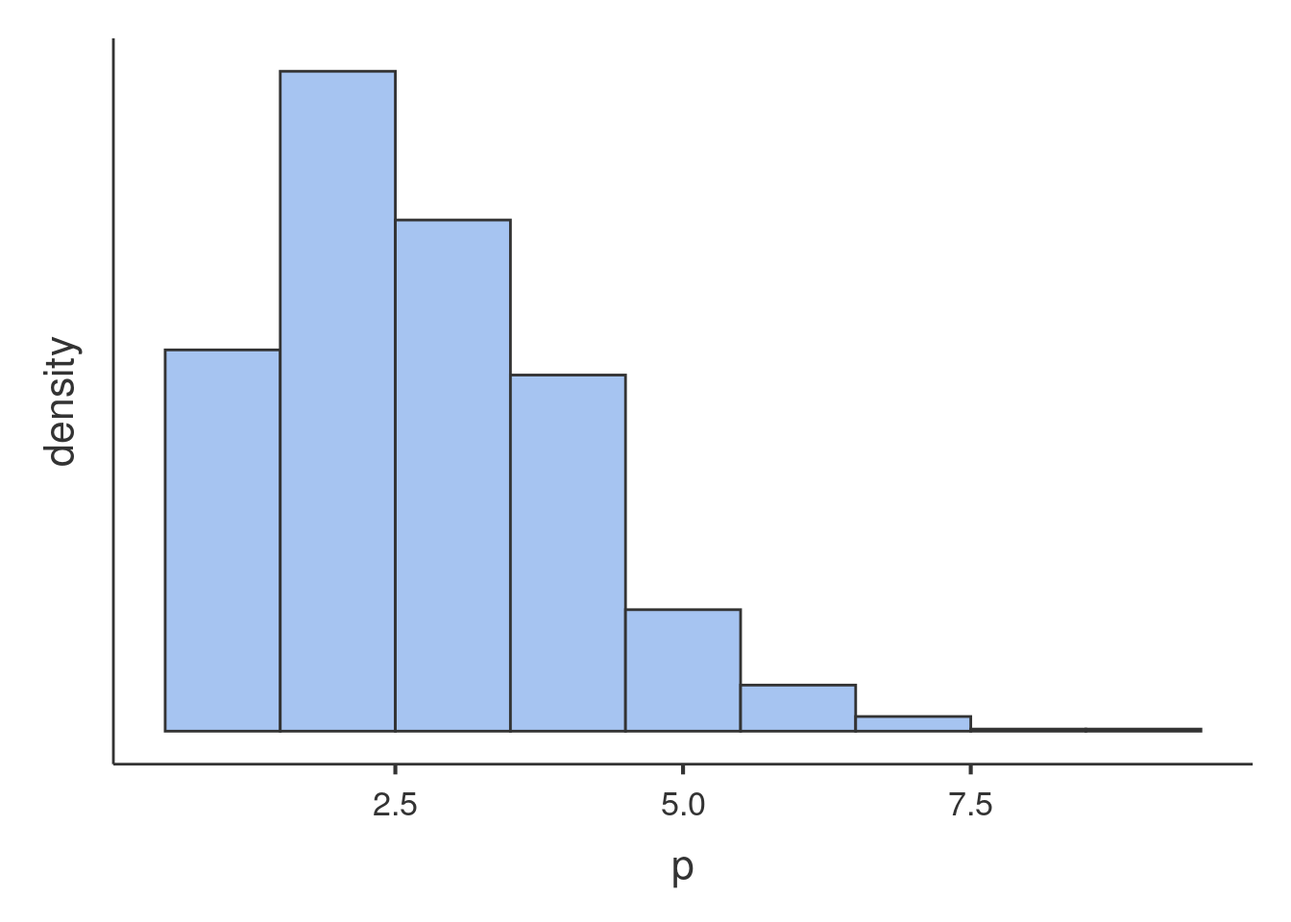
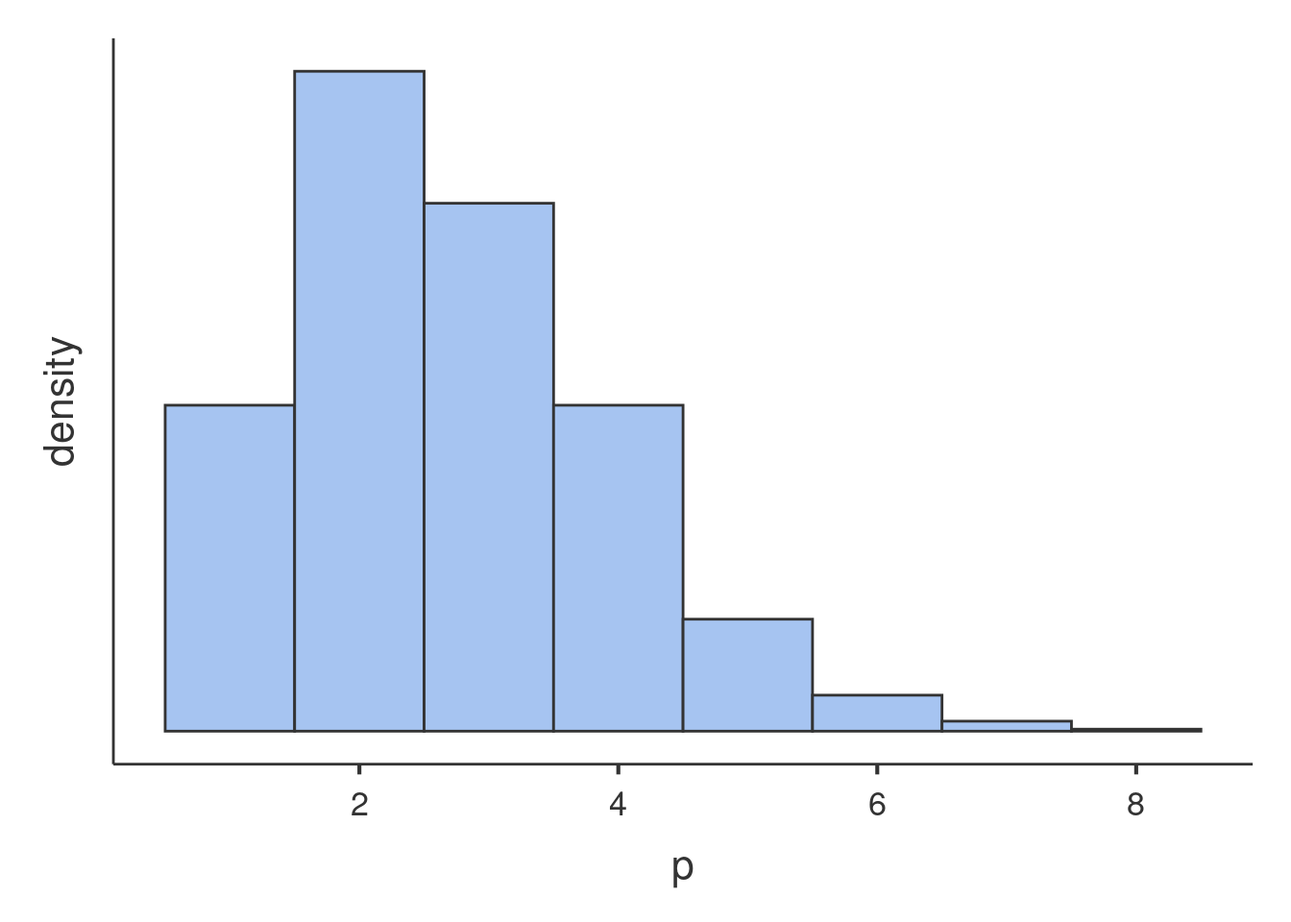
updates

diff --git a/docs/rpackage/reference/gamlj_gmixed.html b/docs/rpackage/reference/gamlj_gmixed.html
@@ -391,11 +391,80 @@ normality of residuals</p></dd>
 
     <div id="ref-examples">
     <h2>Examples</h2>
-    <div class="sourceCode"><pre class="sourceCode r"><code><span class="r-in"><span><span class="fu"><a href="https://rdrr.io/r/utils/data.html" class="external-link">data</a></span><span class="op">(</span><span class="va">schoolexam</span><span class="op">)</span></span></span>
-<span class="r-in"><span><span class="fu">GAMLj3</span><span class="fu">::</span><span class="fu">gamlj_gmixed</span><span class="op">(</span>formula <span class="op">=</span> <span class="va">pass</span> <span class="op">~</span> <span class="fl">1</span> <span class="op">+</span> <span class="va">math</span><span class="op">+</span><span class="op">(</span> <span class="fl">1</span><span class="op">|</span><span class="va">school</span> <span class="op">)</span>,</span></span>
-<span class="r-in"><span>                     data <span class="op">=</span> <span class="va">schoolexam</span></span></span>
+    <div class="sourceCode"><pre class="sourceCode r"><code><span class="r-in"><span><span class="fu"><a href="https://rdrr.io/r/utils/data.html" class="external-link">data</a></span><span class="op">(</span><span class="va">clustermanymodels</span><span class="op">)</span></span></span>
+<span class="r-in"><span><span class="va">clustermanymodels</span><span class="op">$</span><span class="va">ybin</span><span class="op">&lt;-</span><span class="fu"><a href="https://rdrr.io/r/base/factor.html" class="external-link">factor</a></span><span class="op">(</span><span class="va">clustermanymodels</span><span class="op">$</span><span class="va">ybin</span><span class="op">)</span></span></span>
+<span class="r-in"><span><span class="fu">GAMLj3</span><span class="fu">::</span><span class="fu">gamlj_gmixed</span><span class="op">(</span>formula <span class="op">=</span> <span class="va">ybin</span> <span class="op">~</span> <span class="fl">1</span> <span class="op">+</span> <span class="va">x</span><span class="op">+</span><span class="op">(</span> <span class="fl">1</span><span class="op">|</span><span class="va">cluster</span> <span class="op">)</span>,</span></span>
+<span class="r-in"><span>                     data <span class="op">=</span> <span class="va">clustermanymodels</span>,</span></span>
+<span class="r-in"><span>                     model_type<span class="op">=</span><span class="st">"logistic"</span></span></span>
 <span class="r-in"><span>                     <span class="op">)</span></span></span>
-<span class="r-err co"><span class="r-pr">#&gt;</span> <span class="error">Error in Variable$new(var, self)$checkVariable(data):</span> Cluster variable school should be a nominal variable</span>
+<span class="r-out co"><span class="r-pr">#&gt;</span> </span>
+<span class="r-out co"><span class="r-pr">#&gt;</span>  GENERALIZED MIXED MODEL</span>
+<span class="r-out co"><span class="r-pr">#&gt;</span> </span>
+<span class="r-out co"><span class="r-pr">#&gt;</span>  Model Info                                                                 </span>
+<span class="r-out co"><span class="r-pr">#&gt;</span>  ────────────────────────────────────────────────────────────────────────── </span>
+<span class="r-out co"><span class="r-pr">#&gt;</span>    Info                                                                     </span>
+<span class="r-out co"><span class="r-pr">#&gt;</span>  ────────────────────────────────────────────────────────────────────────── </span>
+<span class="r-out co"><span class="r-pr">#&gt;</span>    Model Type       Logistic Model    Model for binary y                    </span>
+<span class="r-out co"><span class="r-pr">#&gt;</span>    Model            lme4::glmer       ybin ~ 1 + x + ( 1 | cluster )        </span>
+<span class="r-out co"><span class="r-pr">#&gt;</span>    Distribution     Binomial          Dichotomous event distribution of y   </span>
+<span class="r-out co"><span class="r-pr">#&gt;</span>    Link function    Logit             Log of the odd of y                   </span>
+<span class="r-out co"><span class="r-pr">#&gt;</span>    Direction        P(y=1)/P(y=0)     P( ybin = 1 ) / P( ybin = 0 )         </span>
+<span class="r-out co"><span class="r-pr">#&gt;</span>    Sample size                1800                                          </span>
+<span class="r-out co"><span class="r-pr">#&gt;</span>    Converged        yes                                                     </span>
+<span class="r-out co"><span class="r-pr">#&gt;</span>    C.I. method      Wald                                                    </span>
+<span class="r-out co"><span class="r-pr">#&gt;</span>  ────────────────────────────────────────────────────────────────────────── </span>
+<span class="r-out co"><span class="r-pr">#&gt;</span> </span>
+<span class="r-out co"><span class="r-pr">#&gt;</span> </span>
+<span class="r-out co"><span class="r-pr">#&gt;</span>  MODEL RESULTS</span>
+<span class="r-out co"><span class="r-pr">#&gt;</span> </span>
+<span class="r-out co"><span class="r-pr">#&gt;</span>  Model Fit                                                             </span>
+<span class="r-out co"><span class="r-pr">#&gt;</span>  ───────────────────────────────────────────────────────────────────── </span>
+<span class="r-out co"><span class="r-pr">#&gt;</span>    Type           R²           df           LRT X²        p            </span>
+<span class="r-out co"><span class="r-pr">#&gt;</span>  ───────────────────────────────────────────────────────────────────── </span>
+<span class="r-out co"><span class="r-pr">#&gt;</span>    Conditional    0.0436968    2.0000000    39.7507885    &lt; .0000001   </span>
+<span class="r-out co"><span class="r-pr">#&gt;</span>    Marginal       0.0185754    1.0000000    26.8376082     0.0000002   </span>
+<span class="r-out co"><span class="r-pr">#&gt;</span>  ───────────────────────────────────────────────────────────────────── </span>
+<span class="r-out co"><span class="r-pr">#&gt;</span> </span>
+<span class="r-out co"><span class="r-pr">#&gt;</span> </span>
+<span class="r-out co"><span class="r-pr">#&gt;</span>  Additional Indices                                              </span>
+<span class="r-out co"><span class="r-pr">#&gt;</span>  ─────────────────────────────────────────────────────────────── </span>
+<span class="r-out co"><span class="r-pr">#&gt;</span>    Info              Model Value      Comment                    </span>
+<span class="r-out co"><span class="r-pr">#&gt;</span>  ─────────────────────────────────────────────────────────────── </span>
+<span class="r-out co"><span class="r-pr">#&gt;</span>    LogLikelihood     -1210.6506201                               </span>
+<span class="r-out co"><span class="r-pr">#&gt;</span>    AIC                2427.3012403    Less is better             </span>
+<span class="r-out co"><span class="r-pr">#&gt;</span>    BIC                2443.7878661    Less is better             </span>
+<span class="r-out co"><span class="r-pr">#&gt;</span>    Deviance           2421.3012403    Less is better             </span>
+<span class="r-out co"><span class="r-pr">#&gt;</span>    Residual DF        1797.0000000                               </span>
+<span class="r-out co"><span class="r-pr">#&gt;</span>    Chi-squared/DF        0.9822442    Overdispersion indicator   </span>
+<span class="r-out co"><span class="r-pr">#&gt;</span>  ─────────────────────────────────────────────────────────────── </span>
+<span class="r-out co"><span class="r-pr">#&gt;</span> </span>
+<span class="r-out co"><span class="r-pr">#&gt;</span> </span>
+<span class="r-out co"><span class="r-pr">#&gt;</span>  Fixed Effects Omnibus Tests                </span>
+<span class="r-out co"><span class="r-pr">#&gt;</span>  ────────────────────────────────────────── </span>
+<span class="r-out co"><span class="r-pr">#&gt;</span>         X²          df          p           </span>
+<span class="r-out co"><span class="r-pr">#&gt;</span>  ────────────────────────────────────────── </span>
+<span class="r-out co"><span class="r-pr">#&gt;</span>    x    26.24380    1.000000    0.0000003   </span>
+<span class="r-out co"><span class="r-pr">#&gt;</span>  ────────────────────────────────────────── </span>
+<span class="r-out co"><span class="r-pr">#&gt;</span> </span>
+<span class="r-out co"><span class="r-pr">#&gt;</span> </span>
+<span class="r-out co"><span class="r-pr">#&gt;</span>  Parameter Estimates (Fixed Coefficients)                                                                                      </span>
+<span class="r-out co"><span class="r-pr">#&gt;</span>  ───────────────────────────────────────────────────────────────────────────────────────────────────────────────────────────── </span>
+<span class="r-out co"><span class="r-pr">#&gt;</span>    Names          Effect         Estimate       SE             Exp(B)       Lower        Upper        z            p           </span>
+<span class="r-out co"><span class="r-pr">#&gt;</span>  ───────────────────────────────────────────────────────────────────────────────────────────────────────────────────────────── </span>
+<span class="r-out co"><span class="r-pr">#&gt;</span>    (Intercept)    (Intercept)    -0.28754013    0.072358483    0.7501065    0.6509255    0.8643996    -3.973828    0.0000707   </span>
+<span class="r-out co"><span class="r-pr">#&gt;</span>    x              x               0.05075563    0.009907654    1.0520658    1.0318332    1.0726951     5.122871    0.0000003   </span>
+<span class="r-out co"><span class="r-pr">#&gt;</span>  ───────────────────────────────────────────────────────────────────────────────────────────────────────────────────────────── </span>
+<span class="r-out co"><span class="r-pr">#&gt;</span> </span>
+<span class="r-out co"><span class="r-pr">#&gt;</span> </span>
+<span class="r-out co"><span class="r-pr">#&gt;</span>  Random Components                                                    </span>
+<span class="r-out co"><span class="r-pr">#&gt;</span>  ──────────────────────────────────────────────────────────────────── </span>
+<span class="r-out co"><span class="r-pr">#&gt;</span>    Groups      Name           Variance      SD           ICC          </span>
+<span class="r-out co"><span class="r-pr">#&gt;</span>  ──────────────────────────────────────────────────────────────────── </span>
+<span class="r-out co"><span class="r-pr">#&gt;</span>    cluster     (Intercept)    0.08642239    0.2939769    0.02559685   </span>
+<span class="r-out co"><span class="r-pr">#&gt;</span>    Residual                   3.28986813    1.8137994                 </span>
+<span class="r-out co"><span class="r-pr">#&gt;</span>  ──────────────────────────────────────────────────────────────────── </span>
+<span class="r-out co"><span class="r-pr">#&gt;</span>    Note. Number of Obs: 1800 , Number of groups: cluster 30</span>
+<span class="r-out co"><span class="r-pr">#&gt;</span> </span>
 <span class="r-in"><span>       </span></span>
 </code></pre></div>
     </div>

diff --git a/docs/rpackage/reference/gamlj_mixed.html b/docs/rpackage/reference/gamlj_mixed.html
@@ -428,12 +428,68 @@ option is ignored if the model is passed using <code>formula</code>.</p></dd>
 
     <div id="ref-examples">
     <h2>Examples</h2>
-    <div class="sourceCode"><pre class="sourceCode r"><code><span class="r-in"><span><span class="fu"><a href="https://rdrr.io/r/utils/data.html" class="external-link">data</a></span><span class="op">(</span><span class="va">subjects_by_stimuli</span><span class="op">)</span></span></span>
-<span class="r-in"><span><span class="fu">GAMLj3</span><span class="fu">::</span><span class="fu">gamlj_mixed</span><span class="op">(</span></span></span>
-<span class="r-in"><span>       formula <span class="op">=</span> <span class="va">y</span> <span class="op">~</span> <span class="fl">1</span> <span class="op">+</span> <span class="va">cond</span><span class="op">+</span><span class="op">(</span> <span class="fl">1</span><span class="op">|</span><span class="va">subj</span> <span class="op">)</span>,</span></span>
-<span class="r-in"><span>       data <span class="op">=</span> <span class="va">subjects_by_stimuli</span><span class="op">)</span></span></span>
+    <div class="sourceCode"><pre class="sourceCode r"><code><span class="r-in"><span><span class="fu"><a href="https://rdrr.io/r/utils/data.html" class="external-link">data</a></span><span class="op">(</span><span class="va">clustermanymodels</span><span class="op">)</span></span></span>
+<span class="r-in"><span><span class="fu">GAMLj3</span><span class="fu">::</span><span class="fu">gamlj_mixed</span><span class="op">(</span>formula <span class="op">=</span> <span class="va">ycont</span> <span class="op">~</span> <span class="fl">1</span> <span class="op">+</span> <span class="va">x</span><span class="op">+</span><span class="op">(</span> <span class="fl">1</span><span class="op">|</span><span class="va">cluster</span> <span class="op">)</span>,</span></span>
+<span class="r-in"><span>                     data <span class="op">=</span> <span class="va">clustermanymodels</span></span></span>
+<span class="r-in"><span>                     <span class="op">)</span></span></span>
 <span class="r-out co"><span class="r-pr">#&gt;</span> NULL</span>
-<span class="r-err co"><span class="r-pr">#&gt;</span> <span class="error">Error in Variable$new(var, self)$checkVariable(data):</span> Cluster variable subj should be a nominal variable</span>
+<span class="r-out co"><span class="r-pr">#&gt;</span> </span>
+<span class="r-out co"><span class="r-pr">#&gt;</span>  MIXED MODEL</span>
+<span class="r-out co"><span class="r-pr">#&gt;</span> </span>
+<span class="r-out co"><span class="r-pr">#&gt;</span>  Model Info                                                               </span>
+<span class="r-out co"><span class="r-pr">#&gt;</span>  ──────────────────────────────────────────────────────────────────────── </span>
+<span class="r-out co"><span class="r-pr">#&gt;</span>    Info                                                                   </span>
+<span class="r-out co"><span class="r-pr">#&gt;</span>  ──────────────────────────────────────────────────────────────────────── </span>
+<span class="r-out co"><span class="r-pr">#&gt;</span>    Model Type      Mixed Model      Linear Mixed model for continuous y   </span>
+<span class="r-out co"><span class="r-pr">#&gt;</span>    Model           lmer             ycont ~ 1 + x + ( 1 | cluster )       </span>
+<span class="r-out co"><span class="r-pr">#&gt;</span>    Distribution    Gaussian         Normal distribution of residuals      </span>
+<span class="r-out co"><span class="r-pr">#&gt;</span>    Direction       y                Dependend variable scores             </span>
+<span class="r-out co"><span class="r-pr">#&gt;</span>    Optimizer       bobyqa                                                 </span>
+<span class="r-out co"><span class="r-pr">#&gt;</span>    DF method       Satterthwaite                                          </span>
+<span class="r-out co"><span class="r-pr">#&gt;</span>    Sample size              1800                                          </span>
+<span class="r-out co"><span class="r-pr">#&gt;</span>    Converged       yes                                                    </span>
+<span class="r-out co"><span class="r-pr">#&gt;</span>    Y transform     none                                                   </span>
+<span class="r-out co"><span class="r-pr">#&gt;</span>    C.I. method     Wald                                                   </span>
+<span class="r-out co"><span class="r-pr">#&gt;</span>  ──────────────────────────────────────────────────────────────────────── </span>
+<span class="r-out co"><span class="r-pr">#&gt;</span> </span>
+<span class="r-out co"><span class="r-pr">#&gt;</span> </span>
+<span class="r-out co"><span class="r-pr">#&gt;</span>  MODEL RESULTS</span>
+<span class="r-out co"><span class="r-pr">#&gt;</span> </span>
+<span class="r-out co"><span class="r-pr">#&gt;</span>  Model Fit                                                      </span>
+<span class="r-out co"><span class="r-pr">#&gt;</span>  ────────────────────────────────────────────────────────────── </span>
+<span class="r-out co"><span class="r-pr">#&gt;</span>    Type           R²           df    LRT X²        p            </span>
+<span class="r-out co"><span class="r-pr">#&gt;</span>  ────────────────────────────────────────────────────────────── </span>
+<span class="r-out co"><span class="r-pr">#&gt;</span>    Conditional    0.0462640     2    54.8903441    &lt; .0000001   </span>
+<span class="r-out co"><span class="r-pr">#&gt;</span>    Marginal       0.0181812     1    33.8457863    &lt; .0000001   </span>
+<span class="r-out co"><span class="r-pr">#&gt;</span>  ────────────────────────────────────────────────────────────── </span>
+<span class="r-out co"><span class="r-pr">#&gt;</span> </span>
+<span class="r-out co"><span class="r-pr">#&gt;</span> </span>
+<span class="r-out co"><span class="r-pr">#&gt;</span>  Fixed Effects Omnibus Tests                       </span>
+<span class="r-out co"><span class="r-pr">#&gt;</span>  ───────────────────────────────────────────────── </span>
+<span class="r-out co"><span class="r-pr">#&gt;</span>         F           df    df (res)    p            </span>
+<span class="r-out co"><span class="r-pr">#&gt;</span>  ───────────────────────────────────────────────── </span>
+<span class="r-out co"><span class="r-pr">#&gt;</span>    x    34.11344     1    1778.688    &lt; .0000001   </span>
+<span class="r-out co"><span class="r-pr">#&gt;</span>  ───────────────────────────────────────────────── </span>
+<span class="r-out co"><span class="r-pr">#&gt;</span> </span>
+<span class="r-out co"><span class="r-pr">#&gt;</span> </span>
+<span class="r-out co"><span class="r-pr">#&gt;</span>  Parameter Estimates (Fixed coefficients)                                                                                        </span>
+<span class="r-out co"><span class="r-pr">#&gt;</span>  ─────────────────────────────────────────────────────────────────────────────────────────────────────────────────────────────── </span>
+<span class="r-out co"><span class="r-pr">#&gt;</span>    Names          Effect         Estimate      SE            Lower         Upper         df            t            p            </span>
+<span class="r-out co"><span class="r-pr">#&gt;</span>  ─────────────────────────────────────────────────────────────────────────────────────────────────────────────────────────────── </span>
+<span class="r-out co"><span class="r-pr">#&gt;</span>    (Intercept)    (Intercept)    43.2121306    0.46765270    42.2949301    44.1293312      28.98377    92.402184    &lt; .0000001   </span>
+<span class="r-out co"><span class="r-pr">#&gt;</span>    x              x               0.3306732    0.05661562     0.2196338     0.4417126    1778.68769     5.840671    &lt; .0000001   </span>
+<span class="r-out co"><span class="r-pr">#&gt;</span>  ─────────────────────────────────────────────────────────────────────────────────────────────────────────────────────────────── </span>
+<span class="r-out co"><span class="r-pr">#&gt;</span> </span>
+<span class="r-out co"><span class="r-pr">#&gt;</span> </span>
+<span class="r-out co"><span class="r-pr">#&gt;</span>  Random Components                                                    </span>
+<span class="r-out co"><span class="r-pr">#&gt;</span>  ──────────────────────────────────────────────────────────────────── </span>
+<span class="r-out co"><span class="r-pr">#&gt;</span>    Groups      Name           Variance      SD           ICC          </span>
+<span class="r-out co"><span class="r-pr">#&gt;</span>  ──────────────────────────────────────────────────────────────────── </span>
+<span class="r-out co"><span class="r-pr">#&gt;</span>    cluster     (Intercept)      4.189568     2.046843    0.02860285   </span>
+<span class="r-out co"><span class="r-pr">#&gt;</span>    Residual                   142.284203    11.928294                 </span>
+<span class="r-out co"><span class="r-pr">#&gt;</span>  ──────────────────────────────────────────────────────────────────── </span>
+<span class="r-out co"><span class="r-pr">#&gt;</span>    Note. Number of Obs: 1800 , Number of groups: cluster 30</span>
+<span class="r-out co"><span class="r-pr">#&gt;</span> </span>
 </code></pre></div>
     </div>
   </div>

diff --git a/docs/glmmixed_example2.html b/docs/glmmixed_example2.html
@@ -424,8 +424,8 @@ Generalized Linear Model with Poisson distribition may work. However, we
 can check wheather our distribution is in line with the features of the
 Poisson dist by checking its mean and variance. The Poisson distribution
 has variance equal to the mean, in fact the simulated distribution in
-the histogram has <span class="math inline">\(\bar{x}=1.712\)</span> and
-<span class="math inline">\(s^2=1.735\)</span>. The <code>art</code>
+the histogram has <span class="math inline">\(\bar{x}=1.698\)</span> and
+<span class="math inline">\(s^2=1.546\)</span>. The <code>art</code>
 variable distribution has <span
 class="math inline">\(\bar{x}=1.693\)</span> and <span
 class="math inline">\(s^2=3.71\)</span>, with a ratio variance/mean of
